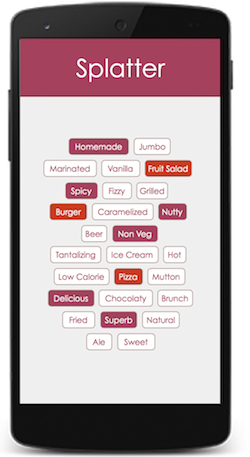
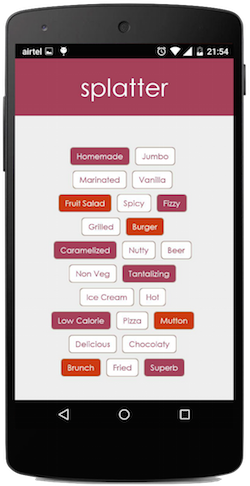
appscreen updated

diff --git a/index.html b/index.html
@@ -7,18 +7,21 @@
 	<!-- Style  -->
 	<link href='https://fonts.googleapis.com/css?family=Ubuntu' rel='stylesheet' type='text/css'>
 	<link href='https://fonts.googleapis.com/css?family=Muli' rel='stylesheet' type='text/css'>
+	<link href='https://fonts.googleapis.com/css?family=Quicksand:400,700' rel='stylesheet' type='text/css'>
 	<style type="text/css">
 
 	#parx_lyr_1{
 		position:fixed;
-		background: url(img/mock.png) no-repeat center 365px; 
+		background: url(img/appscreen.png) no-repeat center 365px; 
+		background-size: 250px 457px;
 		width:100%;
-		height: 820px;
+		height: 1500px;
 	}
 
 	#content_layer{ 
 		position:absolute; 
-		background:url(img/bg2.jpg);
+		background:url(img/bg11.jpg)  ;
+		box-shadow: 10px 10px 5px #ccc;
 		background-size: 100% 413px ;
 		background-repeat: no-repeat;
 		width:100%;
@@ -29,7 +32,7 @@
 		margin-top: -115px;
 		height: 437px;
 		font-size: 18px;
-		font-family: sans-serif;
+		font-family: 'Quicksand',sans-serif;
 		color: grey;
 	}
 
@@ -40,9 +43,13 @@
 
 	#feature1{
 		height: 437px;
-		width: 50%;
+		width: 40%;
 		float: left;
-		text-align: center;
+		text-align: right;
+	}
+
+	#featuremid{
+		width: 20%
 	}
 
 	#feature11{
@@ -50,7 +57,7 @@
 		padding-top: 14%;
 		display: inline-block;
 		height: 30%;
-		width: 40%;	
+		width: 45%;	
 	}
 
 	#feature12{
@@ -59,7 +66,7 @@
 		display: inline-block;
 		vertical-align: middle;
 		height: 50%;
-		width: 40%;
+		width: 55%;
 	}
 
 	#feature21{
@@ -67,7 +74,7 @@
 		padding-top: 14%;
 		display: inline-block;
 		height: 30%;
-		width: 40%;
+		width: 42%;
 	}
 
 	#feature22{
@@ -75,14 +82,15 @@
 		padding-top: 0%;
 		display: inline-block;
 		height: 50%;
-		width: 40%;
+		width: 48%;
 	}	
 
 
 	#feature2{
-		text-align: center;
+		text-align: left;
+
 		height: 437px;
-		width: 50%;
+		width: 40%;
 		float: right;
 		}
 
@@ -115,9 +123,10 @@
 		height: 413px;
 		margin-top: 0px;
 		padding-top: 100px;
-		font-family: 'Muli', sans-serif;
+		font-family: 'Quicksand', sans-serif;
 		color:white;font-size:20px;
-		margin-top:0px
+		margin-top:0px;
+		text-shadow:0.8px 0.8px GREY
 	}
 
 	</style>
@@ -139,7 +148,7 @@
 
 	function parallax(){
 		var prlx_lyr_1 = document.getElementById('parx_lyr_1');
-		prlx_lyr_1.style.top = -(window.pageYOffset / 1.58)+'px';
+		prlx_lyr_1.style.top = -(window.pageYOffset / 1.55)+'px';
 
 	}
 	window.addEventListener("scroll", parallax, false);
@@ -198,6 +207,9 @@
 			    dataType: "json",
 			    success: function(){
 			    	document.getElementById("mailboxreponse").innerHTML = "<span style='font-size:12px'>Thanks, we will be in touch.</span>";
+			    	document.getElementById("email").value = " ";
+			    	
+
 			    },
 			    error: function(){
 			    	document.getElementById("mailboxreponse").innerHTML = "<span style='font-size:12px'>Something is not right, please try again.</span>";
@@ -212,34 +224,36 @@
 
 </head>
 
-<body>
+<body >
 	
-    <div id="parx_lyr_1"> 
+    <div id="parx_lyr_1" > 
     
     </div>
     
     <div id="content_layer">
     <div id="head"><center>
     Share your love of food on<br/>
-    <span style="font-size:120px;text-shadow:0.5px 0.5px GREY">splatter</span><br/>
+    <span style="font-size:120px;text-shadow:0.8px 0.8px GREY">splatter</span><br/>
     Coming soon 
     </center></div> 
     	 <div id="features">
     	 	<div id="feature1" >
-	    	 	<p id="feature11" >Explore<br/>
-	    	 	<span style="font-size:13px">Browse through cuisines shared by food lovers in your town and more.</span>
+	    	 	<p id="feature11" ><span style="color:#A63F5A;font-weight:700">Write</span><br/>
+	    	 	<span style="font-size:13px">Talk about food. Learn as you write about food with our app, become a food connoisseur</span>
 	    	 	</p></br>
-	    	 	<p id="feature12">Connect</br>
-	    	 	<span style="font-size:13px">Connect and follow foodies around the world.</span>
+	    	 	<p id="feature12"><span style="color:#A63F5A;font-weight:700">Share</span></br>
+	    	 	<span style="font-size:13px">Socialize with friends and foodies over your favourite dishes, be it restaurants, street-food or home-made delicacies</span>
 	    	 	</p>
     	 	</div>
+    	 	<div id="featuremid">
+    	 	</div>
     	 	<div id="feature2">
-    	 		<p id="feature21">Share</br>
-    	 		<span style="font-size:13px">Share the great food you just ate or cooked with the world.</span>
+    	 		<p id="feature21"><span style="color:#A63F5A;font-weight:700">Indulge</span></br>
+    	 		<span style="font-size:13px">Satiate your appetite by flicking through personalized streams of food photos</span>
     	 		</p></br>
 
-	    	 	<p id="feature22">Nearby</br>
-	    	 	<span style="font-size:13px">Use your mobile location to discover great food nearby.</span>
+	    	 	<p id="feature22"><span style="color:#A63F5A;font-weight:700">Discover</span></br>
+	    	 	<span style="font-size:13px">Find what’s cooking nearby with the help of top results from fellow food experts and enthusiasts</span>
 	    	 	</p>
     	 	</div>
     	 </div>
@@ -251,16 +265,16 @@
 	    </div>
 
 	    <div id="update">
-	    <span style="font-size:18px;">SIGN UP AND RECEIVE UPDATES</span>
+	    <span style="font-size:18px;font-family:'Quicksand';color:#A63F5A;font-weight:700">SIGN UP AND RECEIVE UPDATES</span>
 	    </br>
-	    <span style="font-size:11px;">We are currently building the app and we would love if you can signup here to become one of our very first users.</span>
+	    <span style="font-size:13px;font-family:'Quicksand'">We are currently building the app and we would love if you can signup<br/> here to become one of our very first users.</span>
 
 		    <div style="padding-top:10px" id="mailbox">
 		    	<input type="text" id="email" name="email" style="width:250px;"><button  onclick="emailsubmit()" id="submit" type="submit"  value="Submit">Submit</button>
 		    </div>
 		    <div style="min-height:20px;padding-top:4px" id="mailboxreponse"></div>
  		
-	    <b style="color:black;line-height:28px;">Say Hi & get in touch</b></br>
+	    <b style="color:black;line-height:28px;font-family:'Quicksand'">Say Hi & get in touch</b></br>
 	    <a href="https://www.facebook.com/splatterforfoodies?fref=ts" target="_blank"><img src="img/facebook.png" ></a> <a href="#" target="_blank"><img src="img/pinterest.png"></a>
 	    </br></br>
 	    </div>
